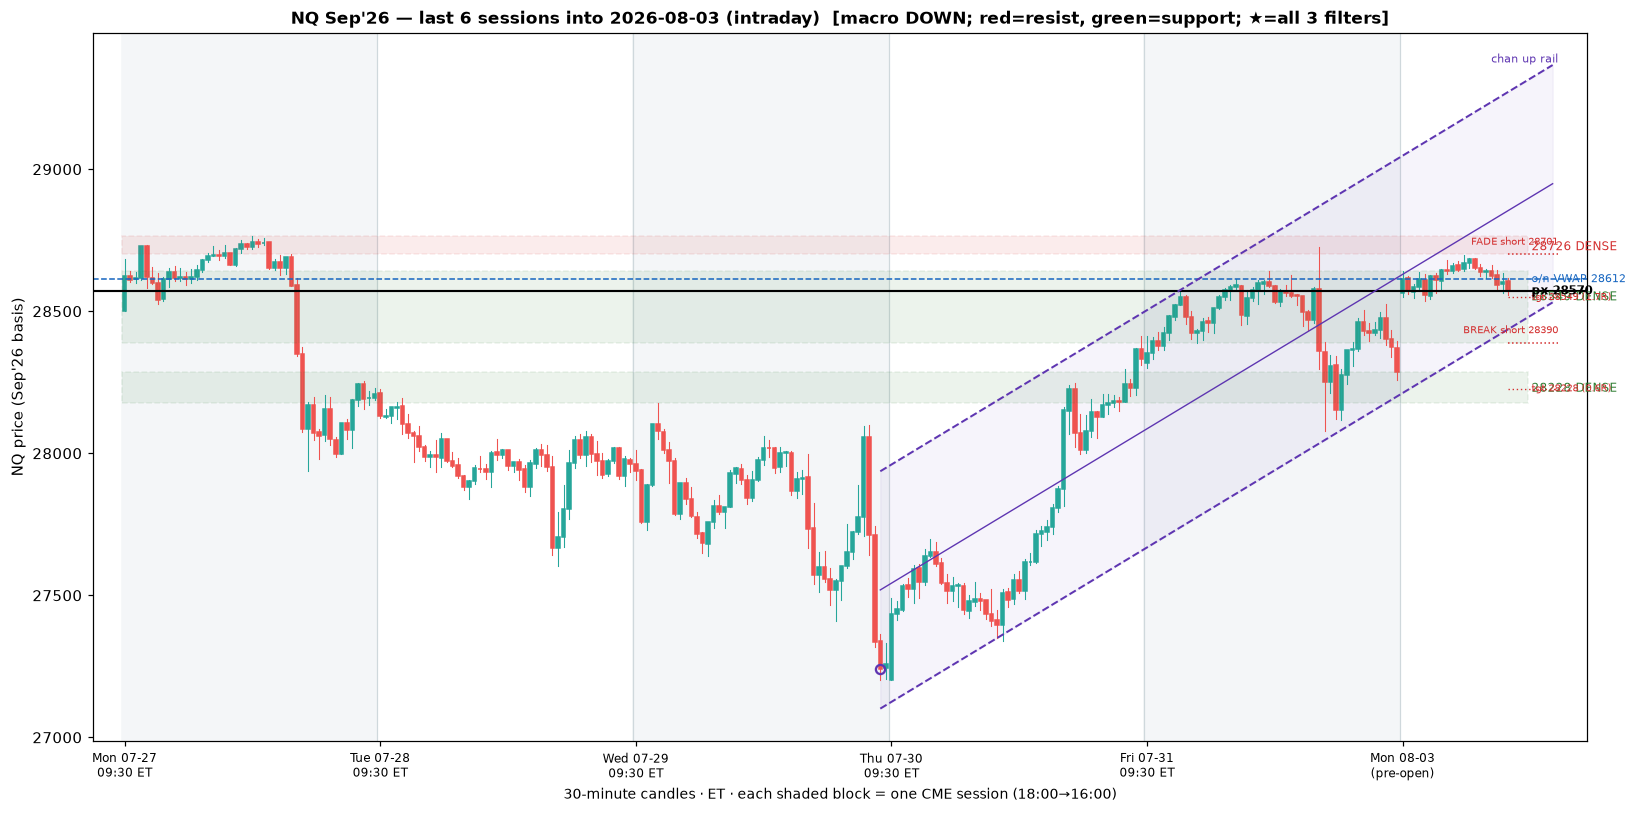
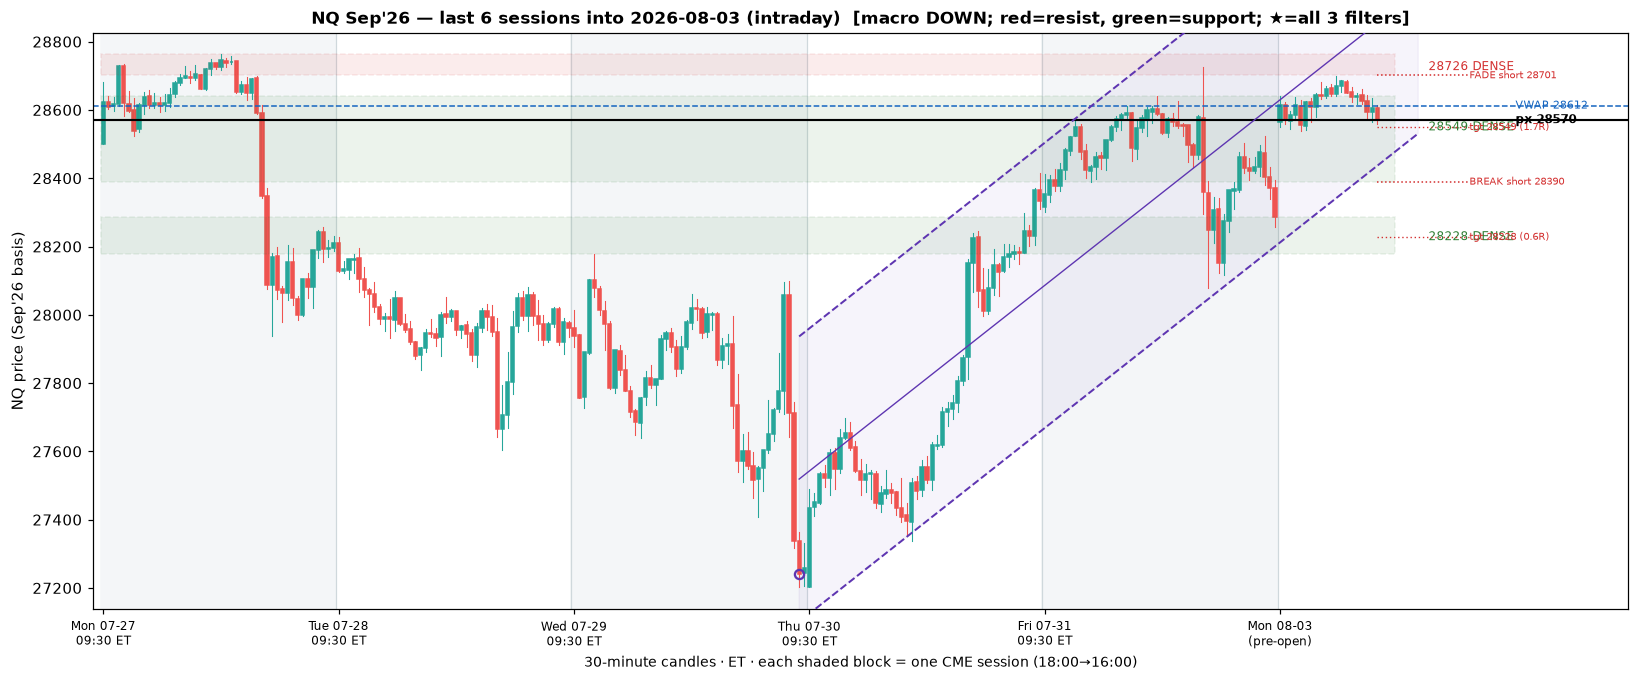
Chart layout: right label gutter (no overlap) + tighter vertical, closer timeline
Add a right-side gutter with 3 label columns (levels | signals | px/VWAP) via
xlim so right-edge text stops overlapping the candles/each other. Tighten y-limits
to the candle+zone range and drop figure height 7.5->6.3 so the date axis sits
closer without shrinking candles. Keep the chan-rail label in view (was escaping
above the tightened ylim and floating the title).

Claude-Session: https://claude.ai/code/session_016aQdjV8pEkud2m7UoLztFR

diff --git a/scripts/three_filter_read.py b/scripts/three_filter_read.py
@@ -196,7 +196,7 @@ def _chart(df30, ids, bysess, az, px, vwap, sd, bias, cur_date, signals=()):
     show = ids[-CHART_SESSIONS:]
     bars = pd.concat([bysess[s] for s in show])
     a = bars.reset_index()
-    fig, ax = plt.subplots(figsize=(15, 7.5))
+    fig, ax = plt.subplots(figsize=(15, 6.3))
     # session shading + dividers; build a real date/time timeline for the bottom axis
     xstart = 0
     xticks, xlabels = [], []
@@ -221,8 +221,9 @@ def _chart(df30, ids, bysess, az, px, vwap, sd, bias, cur_date, signals=()):
         ax.add_patch(Rectangle((i - 0.32, min(row["open"], row["close"])), 0.64,
                                abs(row["close"] - row["open"]) + 0.4, facecolor=c, edgecolor=c))
     m = len(a)
-    # linear-regression channel on the current leg, projected forward
     proj = 8
+    gx1, gx2, xr = m + proj + 1, m + proj + 9, m + proj + 18  # gutter cols: levels | signals | px/vwap
+    # linear-regression channel on the current leg, projected forward
     anchor, slope, mid, up, lo, csd = channel_fit(a["close"].values)
     xs = np.arange(anchor, m)
     xf = np.arange(anchor, m + proj)
@@ -235,8 +236,9 @@ def _chart(df30, ids, bysess, az, px, vwap, sd, bias, cur_date, signals=()):
     ax.plot([anchor], [a["close"].values[anchor]], marker="o", ms=6,
             mfc="none", mec="#5e35b1", mew=1.5, zorder=4)
     dirn = "up" if slope > 0 else "down"
-    ax.text(m + proj, midf[-1] + (up - mid)[0], f"chan {dirn} rail", color="#5e35b1",
-            fontsize=7, va="bottom", ha="right", zorder=4)
+    rail_now = slope * (m - 1) + (mid[0] - slope * anchor) + (up - mid)[0]  # upper rail at current bar (in view)
+    ax.text(gx1, rail_now, f"chan {dirn} rail", color="#5e35b1",
+            fontsize=7, va="center", ha="left", zorder=4, clip_on=True)
     for z in az:
         side = "short" if z["price"] > px else "long"
         dir_ok = (side == "short" and bias < 0) or (side == "long" and bias > 0)
@@ -248,26 +250,29 @@ def _chart(df30, ids, bysess, az, px, vwap, sd, bias, cur_date, signals=()):
                                alpha=0.24 if take else 0.09, edgecolor=col,
                                lw=2.2 if take else 1.0, ls="-" if take else "--", zorder=1))
         g = "DENSE" if z["nt"] >= 4 else ("A+" if z["w"] >= 8 else "wk")
-        ax.text(m + 3.2, z["price"], f"{z['price']:.0f} {g}" + ("  ★TAKE" if take else ""),
-                color=col, fontsize=8, va="center", fontweight="bold" if take else "normal")
-    # armed-signal trigger levels (dotted, with arrow marker in trade direction)
+        ax.text(gx1, z["price"], f"{z['price']:.0f} {g}" + ("  ★TAKE" if take else ""),
+                color=col, fontsize=8, va="center", ha="left", fontweight="bold" if take else "normal")
+    # armed-signal trigger + target in the far gutter column (dotted leader lines)
     for s in signals:
         tc = "#d32f2f" if s["side"] == "short" else "#2e7d32"
-        ax.plot([m - 1, m + proj], [s["trigger"], s["trigger"]], color=tc, lw=1.0, ls=":", zorder=4)
-        ax.annotate(f"{s['kind']} {s['side']} {s['trigger']:.0f}", (m + proj, s["trigger"]),
-                    fontsize=6.5, color=tc, va="center", ha="right",
-                    xytext=(0, 8 if s["side"] == "short" else -8), textcoords="offset points")
-        ax.plot([m - 1, m + proj], [s["tgt"], s["tgt"]], color=tc, lw=0.9, ls=(0, (1, 2)), zorder=4)
-        ax.text(m + 3.2, s["tgt"], f"tgt {s['tgt']:.0f} ({s['R']:.1f}R)", color=tc, fontsize=6.5, va="center")
+        ax.plot([m - 1, gx2], [s["trigger"], s["trigger"]], color=tc, lw=1.0, ls=":", zorder=4)
+        ax.text(gx2, s["trigger"], f"{s['kind']} {s['side']} {s['trigger']:.0f}", color=tc,
+                fontsize=6.5, va="center", ha="left")
+        ax.plot([m - 1, gx2], [s["tgt"], s["tgt"]], color=tc, lw=0.9, ls=(0, (1, 2)), zorder=4)
+        ax.text(gx2, s["tgt"], f"tgt {s['tgt']:.0f} ({s['R']:.1f}R)", color=tc, fontsize=6.5, va="center", ha="left")
     ax.axhline(px, color="#000", lw=1.4)
-    ax.text(m + 3.2, px, f"px {px:.0f}", fontsize=8, va="center", fontweight="bold")
+    ax.text(xr, px, f"px {px:.0f}", fontsize=8, va="center", ha="left", fontweight="bold", clip_on=True)
     ax.axhline(vwap, color="#1565c0", lw=1.0, ls="--")
-    ax.text(m + 3.2, vwap, f"o/n VWAP {vwap:.0f}", color="#1565c0", fontsize=7, va="center")
+    ax.text(xr, vwap, f"VWAP {vwap:.0f}", color="#1565c0", fontsize=7, va="center", ha="left", clip_on=True)
     bt_txt = {1: "UP", -1: "DOWN", 0: "MIXED"}[bias]
     ax.set_title(f"NQ Sep'26 — last {CHART_SESSIONS} sessions into {cur_date} (intraday)  "
                  f"[macro {bt_txt}; red=resist, green=support; ★=all 3 filters]", fontsize=11, fontweight="bold")
     ax.set_xticks(xticks); ax.set_xticklabels(xlabels, fontsize=8)
-    ax.margins(x=0.02)
+    ax.set_xlim(-2, xr + 22)                       # right gutter for labels
+    ylo = min([a["low"].min()] + [z["lo"] for z in az])
+    yhi = max([a["high"].max()] + [z["hi"] for z in az])
+    pad = (yhi - ylo) * 0.04
+    ax.set_ylim(ylo - pad, yhi + pad)              # tighten vertical whitespace
     ax.set_ylabel("NQ price (Sep'26 basis)")
     ax.set_xlabel("30-minute candles · ET · each shaded block = one CME session (18:00→16:00)", fontsize=9)
     plt.tight_layout()
